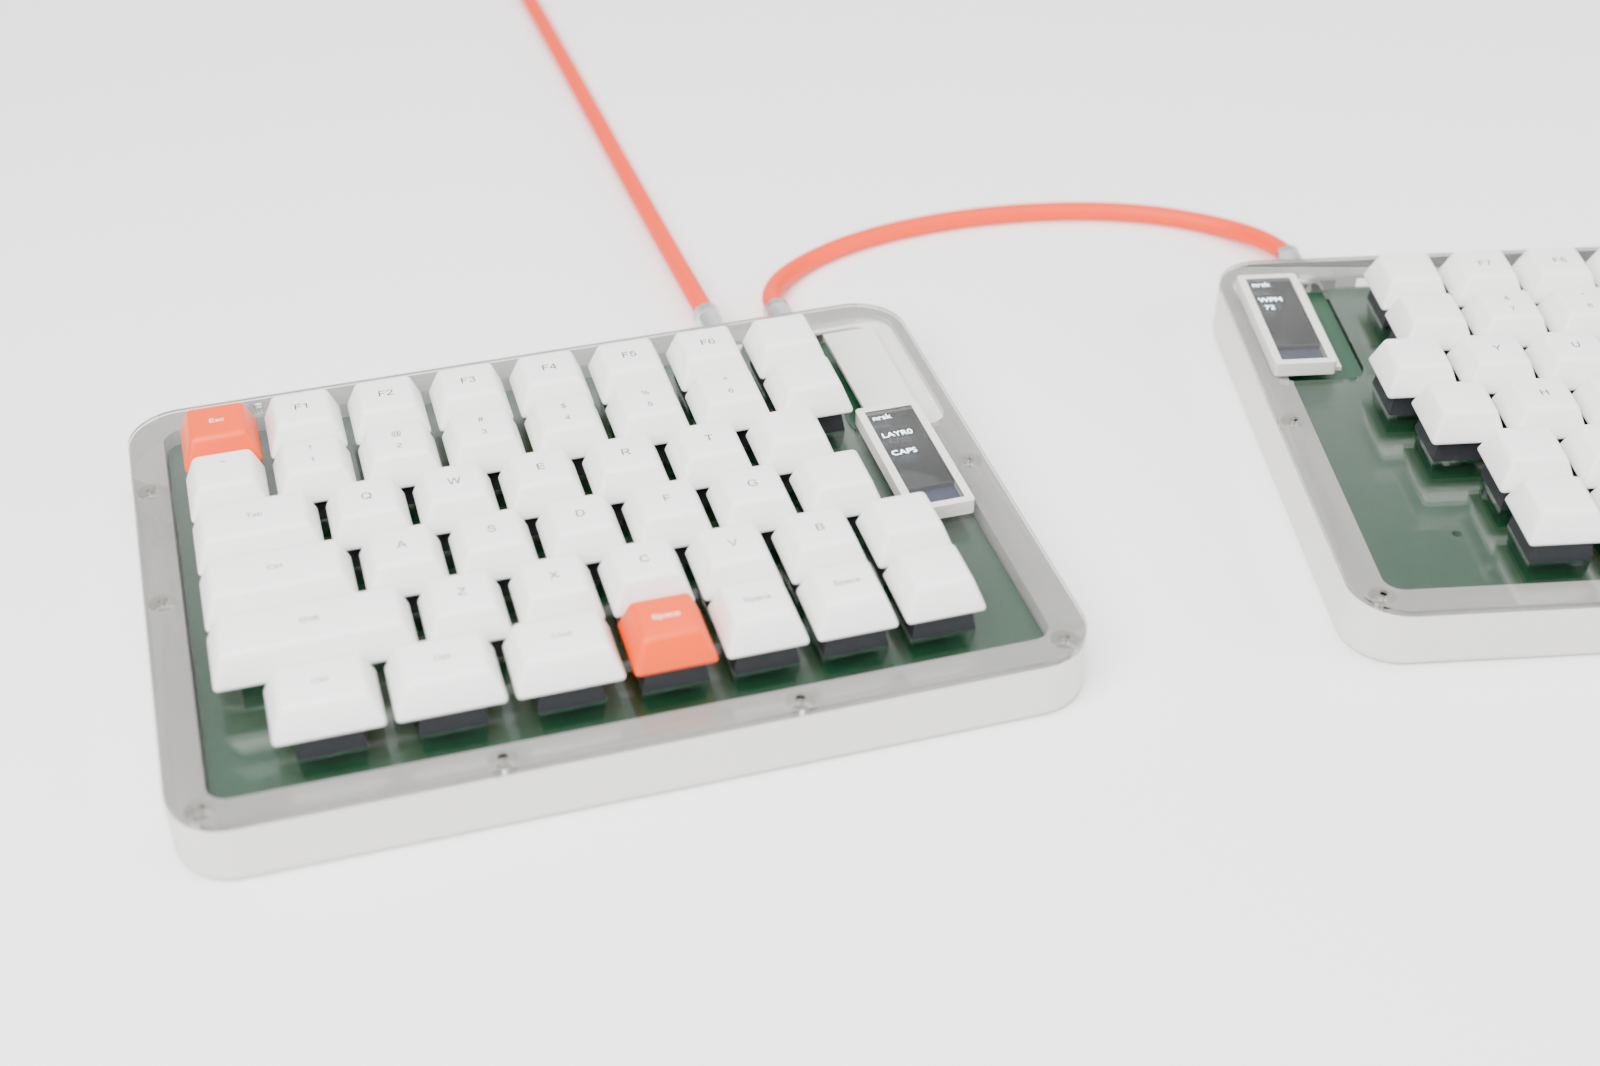
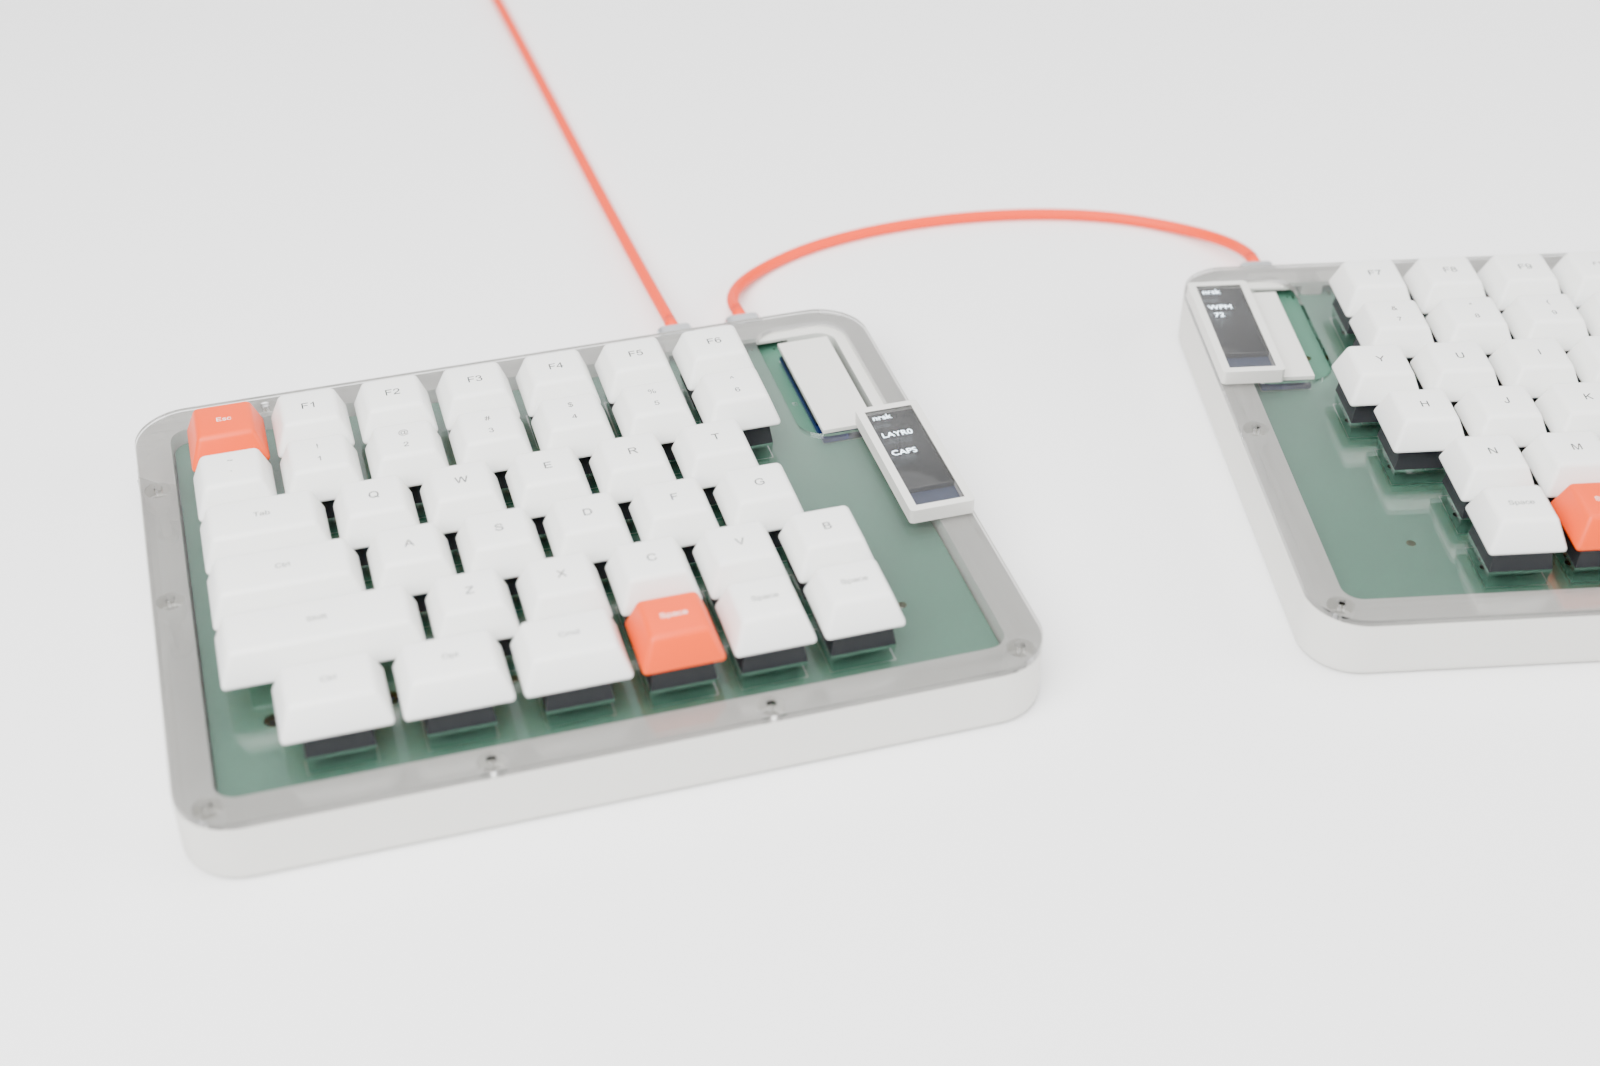
OLED の比較：今の基板・筐体の形で描き直す
RES=1600 SAMPLES=160 で oled_study.sh と render_grid.py を実行し、案 A〜F の比較画像と
一覧（render-grid）を更新。README の「当時の形で描いている」という注記を今の形に合わせる。
render_all.sh は最後まで通ることを確認した（今のデザインの画像は 88a19a0 のままで変更なし）。

diff --git a/README.md b/README.md
@@ -144,7 +144,7 @@ RP2040 の GPIO は 30 本あるので、シリアル通信 1 本、左右判定
 
 ### OLED の高さ・角度の比較
 
-検討段階の記録です（採用したのは、上に書いたプレートと面一のハーフミラーのカバーです）。画像は当時の基板・筐体の形で描いています。
+検討段階の記録です（採用したのは、上に書いたプレートと面一のハーフミラーのカバーです）。画像は今の基板・筐体の形で描き直しています。台座の位置は外形から計算し、壁の上に収まるように置いています。
 キーキャップに隠れにくい OLED の付け方を、高さ 0〜13 mm の 4 案（A〜D）と傾斜 2 案（E・F）で比べました。
 座った目線と寄りのレンダリングを、取り付け方式ごとに [docs/img/render-grid.jpg](docs/img/render-grid.jpg) にまとめています。
 台座の形状は `gen/oled_variants.py`、レンダリングは `gen/render_all.sh` で作り直せます。デフォルトは確認用のプレビュー（長辺 1200 px、数分）で、`FINAL=1 ./gen/render_all.sh` とすると高画質（長辺 2400 px）で出力します。
